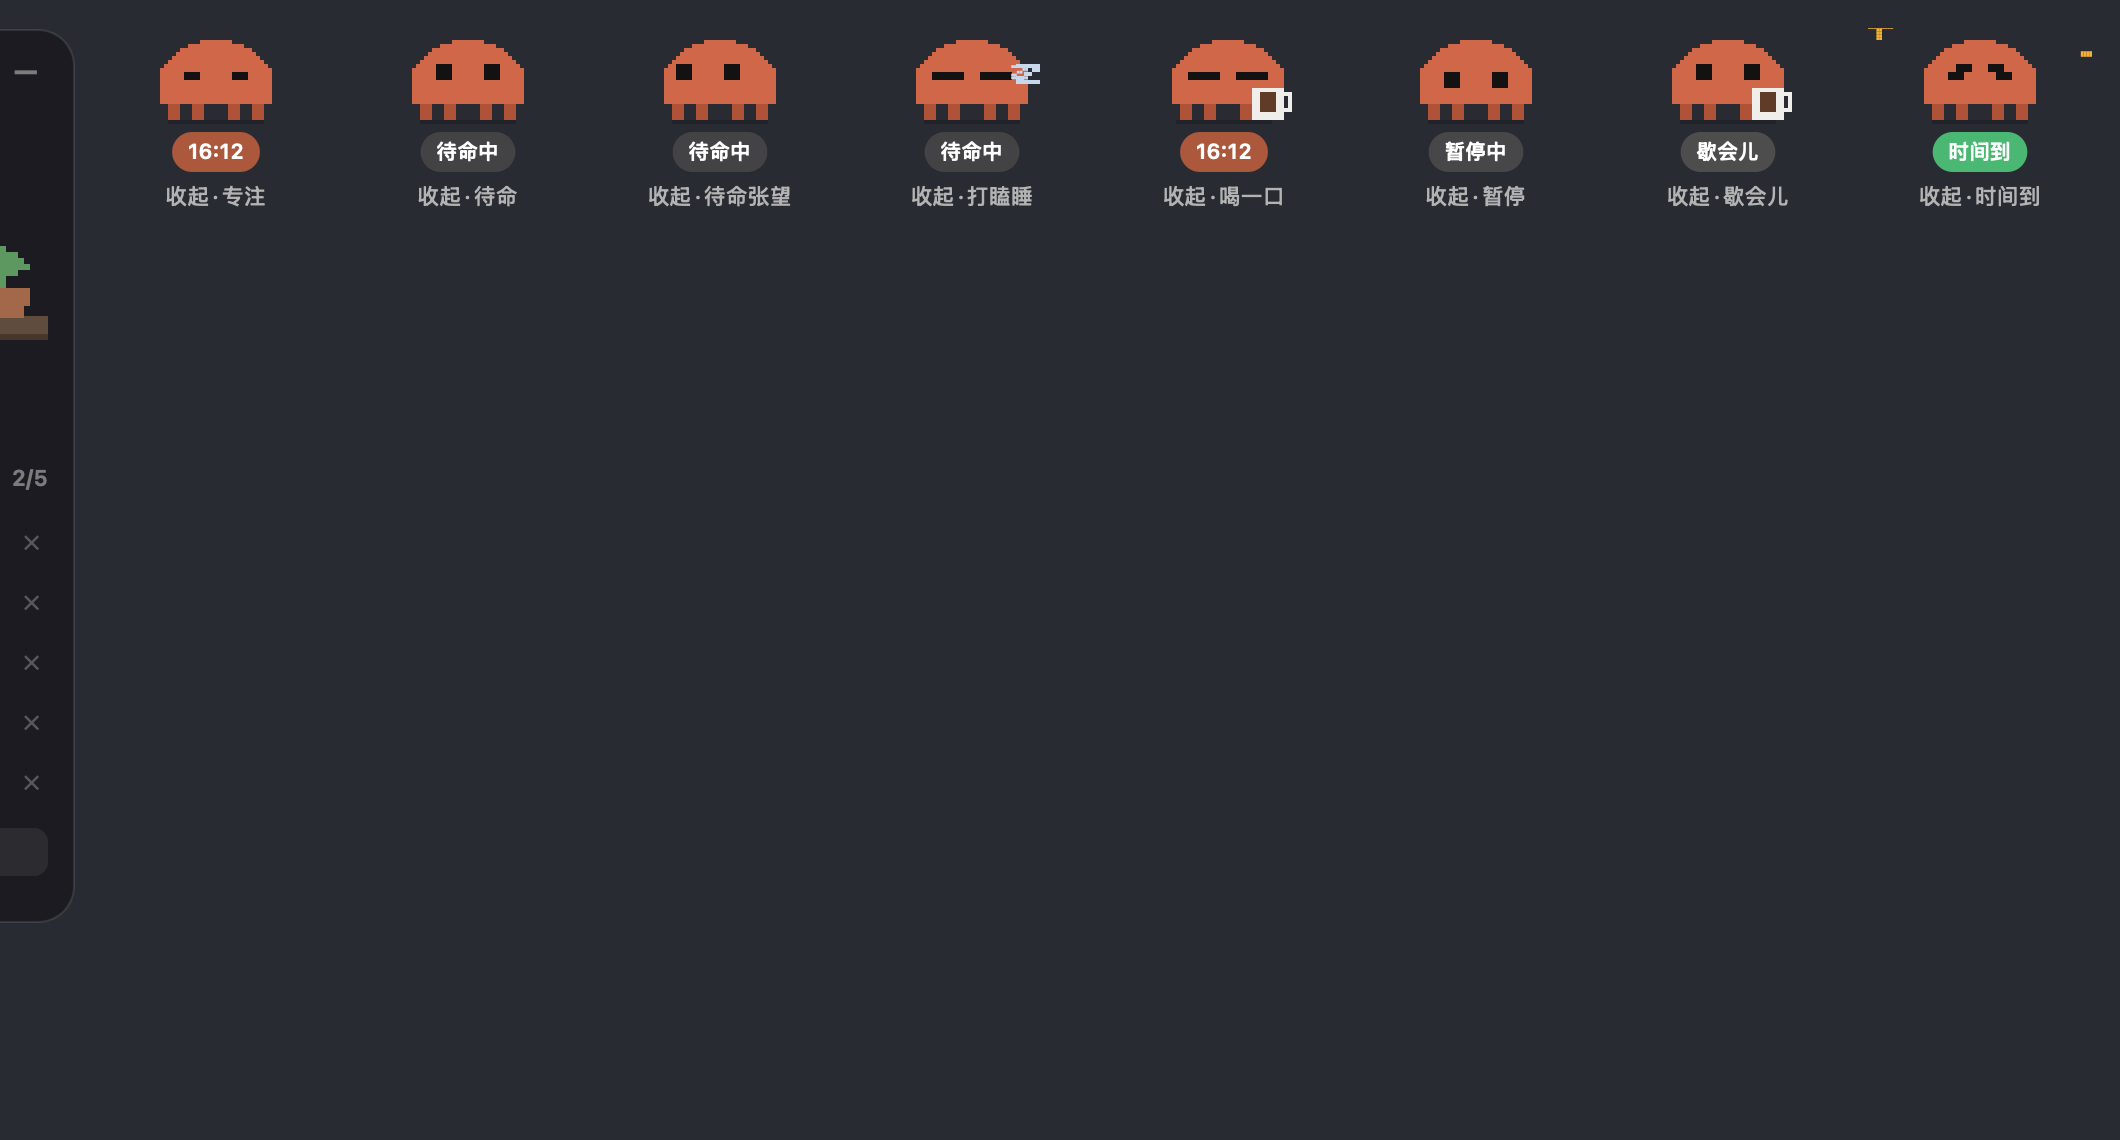
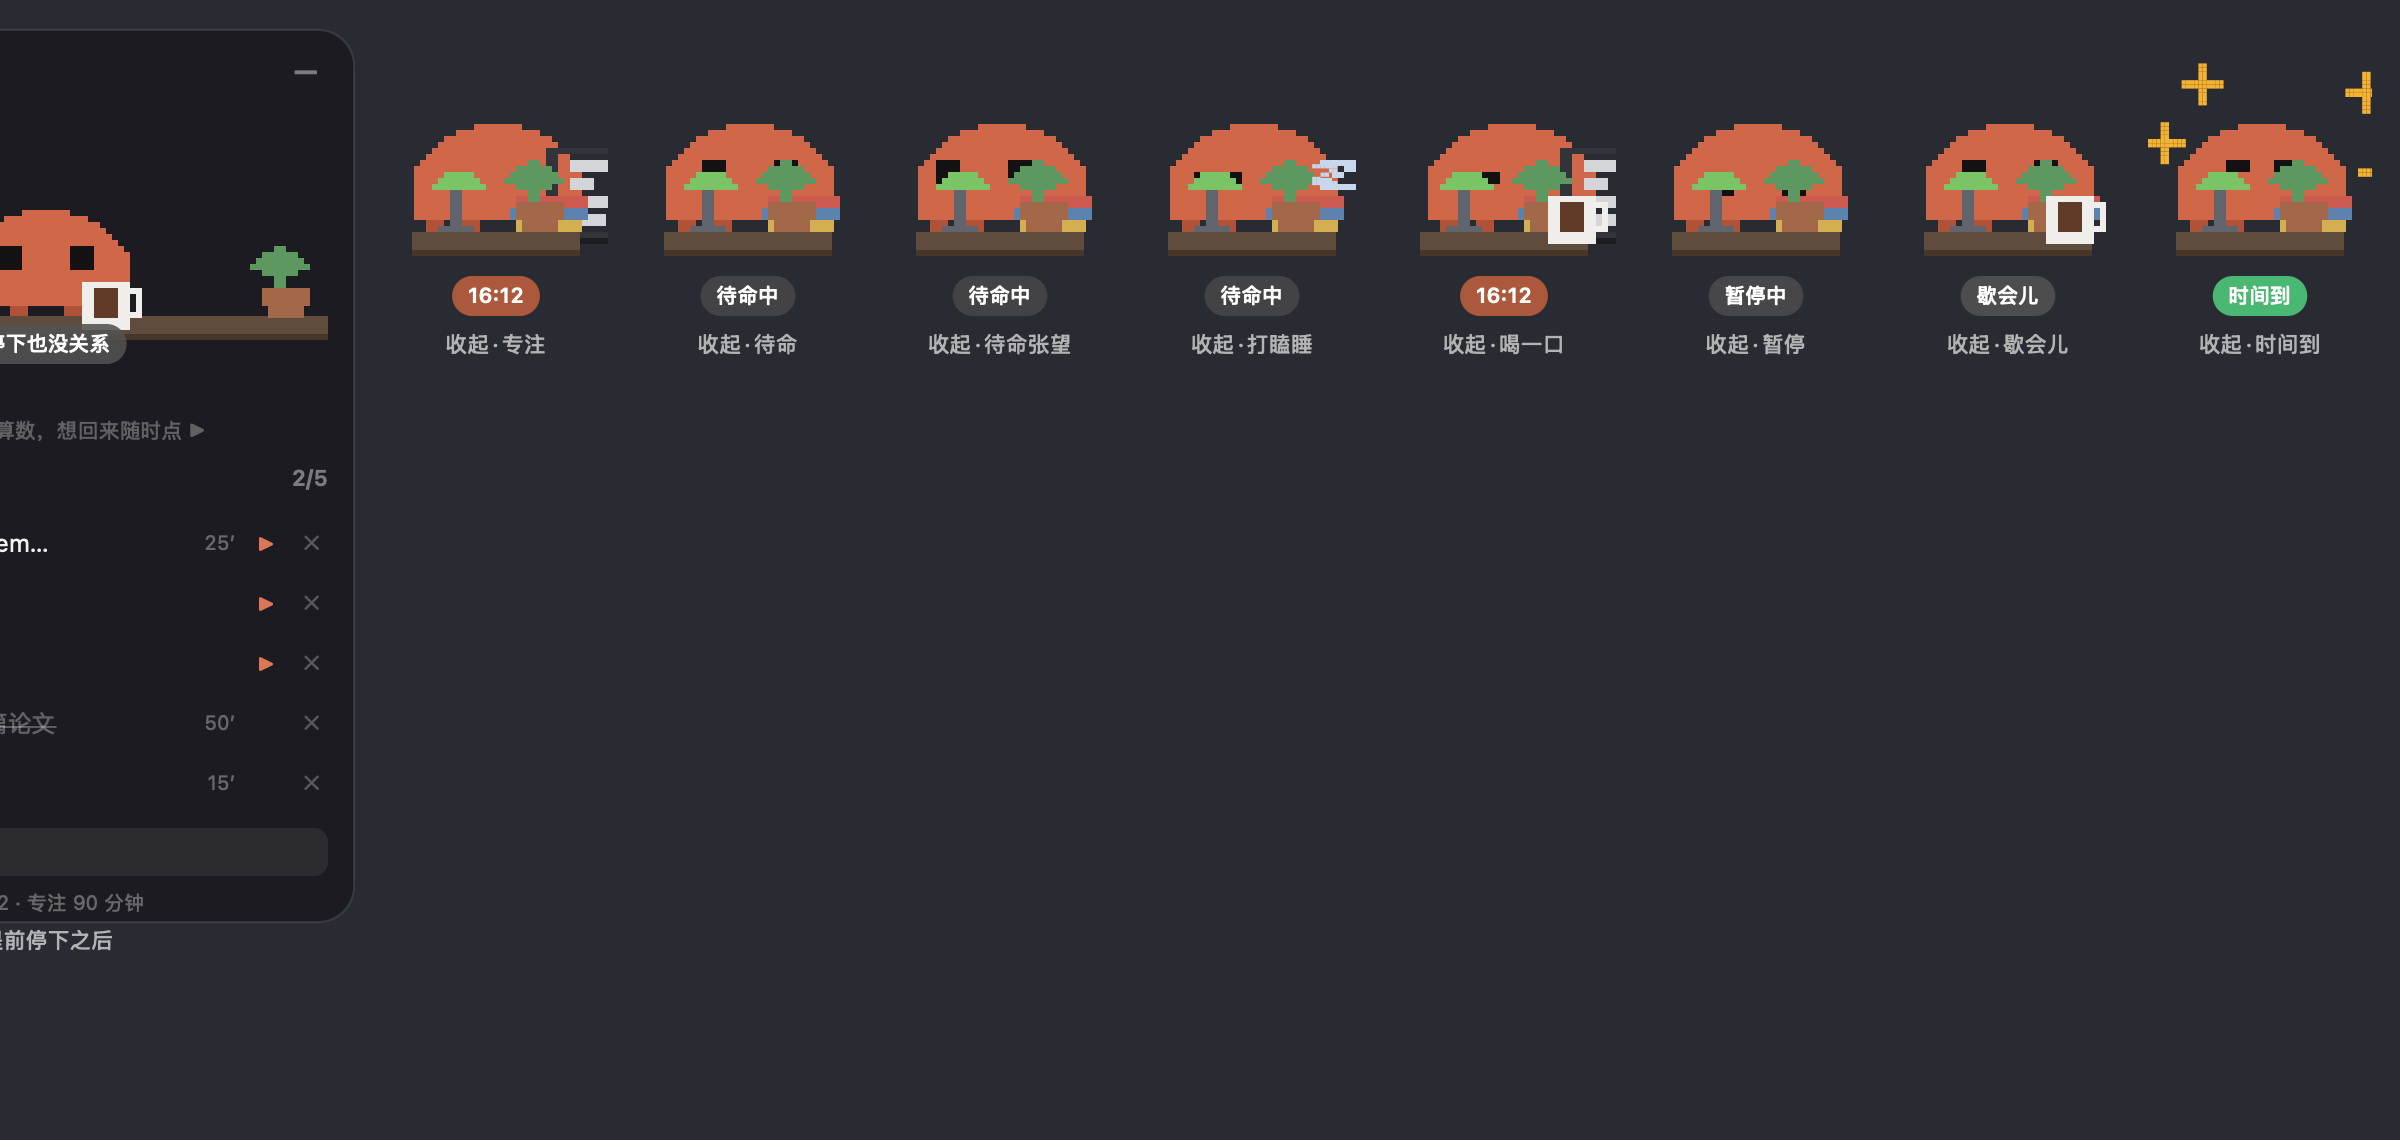
收起态保留桌子带：台灯/书/电脑/绿植都在，不再是光 Clawd
用户指着运行面板顶端那条桌子带说「缩小了以后也要有这个电脑和桌子」。
原来收起 = 砍到只剩 112px 的光 Clawd 贴纸，场景是 !collapsed 才画的。
改成收起 = 保留整条桌子带（280px 宽），砍掉的是清单和计时按钮：
- 场景门从 !collapsed 放开，收起也画桌子/台灯/书/绿植
- 专注时电脑道具在收起态也抱着
- 表情和小动作照旧（上一版加的）
- 尺寸 112→280 宽、76→150 高

--sheet 八个收起状态逐个渲染确认。

diff --git a/clawd/ClawdStudy.swift b/clawd/ClawdStudy.swift
@@ -464,7 +464,7 @@ final class ClawdView: NSView {
     /// Height the expanded panel needs for the current phase and task count.
     func neededHeight() -> CGFloat {
         if edge { return 88 }
-        if collapsed { return 76 }
+        if collapsed { return 150 }        // 桌子带 + 状态条
         var h: CGFloat = 0
         h += 24            // header
         h += 116           // clawd
@@ -623,9 +623,11 @@ final class ClawdView: NSView {
     }
 
     private func drawCollapsed(_ c: CGContext) {
-        drawClawd(c, cx: bounds.midX, baseY: 30, scale: 0.5)   // px = 3
+        // 收起 = 只留「陪你一起」这条桌子带：台灯、书、电脑、绿植、Clawd 坐在架子后面，
+        // 砍掉清单和计时按钮。用户指着运行面板顶端那一条说「缩小了也要有这个」。
+        drawClawd(c, cx: bounds.midX, baseY: 42, scale: 1.0)   // px = 3，跟全面板同一套场景
         let (line, tint) = collapsedLine()
-        pill(c, line, cx: bounds.midX, cy: 14, bg: tint)
+        pill(c, line, cx: bounds.midX, cy: 16, bg: tint)
     }
 
     private func collapsedLine() -> (String, NSColor) {
@@ -939,7 +941,7 @@ final class ClawdView: NSView {
         }
 
         let buff = store?.isBuff ?? false
-        let scene = !collapsed && Scene.enabled
+        let scene = Scene.enabled          // 收起态也保留桌子带
         let body = ClawdSprites.body(face, pose: pose, buff: buff)
         let sz = body.size(px: px)
         let x = cx - sz.width / 2 + shiftX * px
@@ -954,7 +956,7 @@ final class ClawdView: NSView {
         body.draw(c, at: CGPoint(x: x, y: y), px: px)
 
         // Something in its hands while you work — otherwise it just sits there.
-        if case .running = phase, !collapsed {
+        if case .running = phase {
             switch prop {
             case .laptop:
                 // Overlaps the body by 3 cells so both eyes stay clear of it.
@@ -1227,7 +1229,7 @@ final class Clawd: NSObject, NSApplicationDelegate, NSTextFieldDelegate {
 
     private func resize() {
         let h = view.neededHeight()
-        let w: CGFloat = view.edge ? 26 : (view.collapsed ? 112 : 308)
+        let w: CGFloat = view.edge ? 26 : (view.collapsed ? 280 : 308)
         guard abs(window.frame.height - h) > 0.5 || abs(window.frame.width - w) > 0.5 else { return }
 
         // Keep the top-left corner put, so collapsing lands somewhere predictable.
